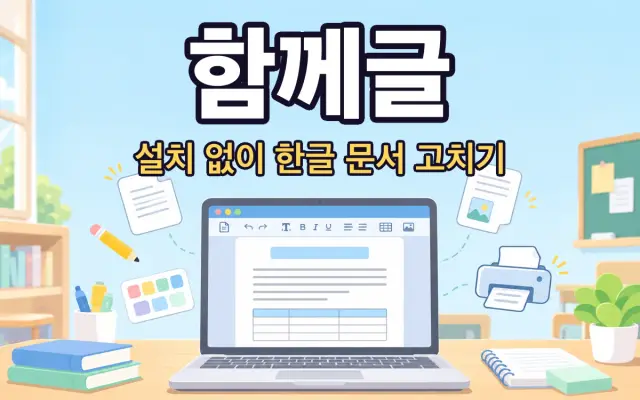
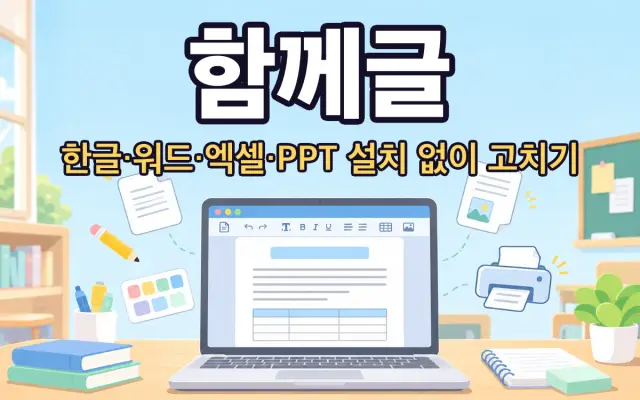
fix(portfolio): 함께글 썸네일·소개에 한글뿐 아니라 워드·엑셀·PPT 도 보이게
Claude-Session: https://claude.ai/code/session_01SkaQPm7YEpbww4ufa1Fd6A

Changed region(s): [[0.0938, 0.33, 0.9062, 0.45]]

diff --git a/src/data/projects.ts b/src/data/projects.ts
@@ -123,7 +123,7 @@ export const teacherTools: TeacherTool[] = [
     slug: 'hamkkegeul',
     name: '함께글',
     platform: '웹 (설치 없음 · 크롬북·웨일북)',
-    tagline: '설치 없이 브라우저에서 HWP 문서를 열고 고쳐 다시 저장',
+    tagline: '한글(HWP)·워드·엑셀·파워포인트 파일을 설치 없이 브라우저에서 열고 고쳐 원래 형식으로 저장',
     description:
       '학교에서 오가는 HWP·HWPX 문서를 프로그램 설치 없이 브라우저에서 열어 고치고, 다시 HWP·HWPX 로 저장하는 편집기입니다. 워드·파워포인트·엑셀 파일도 열어 고친 뒤 원래 형식으로 저장합니다. 문서는 이 기기의 브라우저 안에서만 처리되고 서버로 보내지 않습니다.',
     features: [
